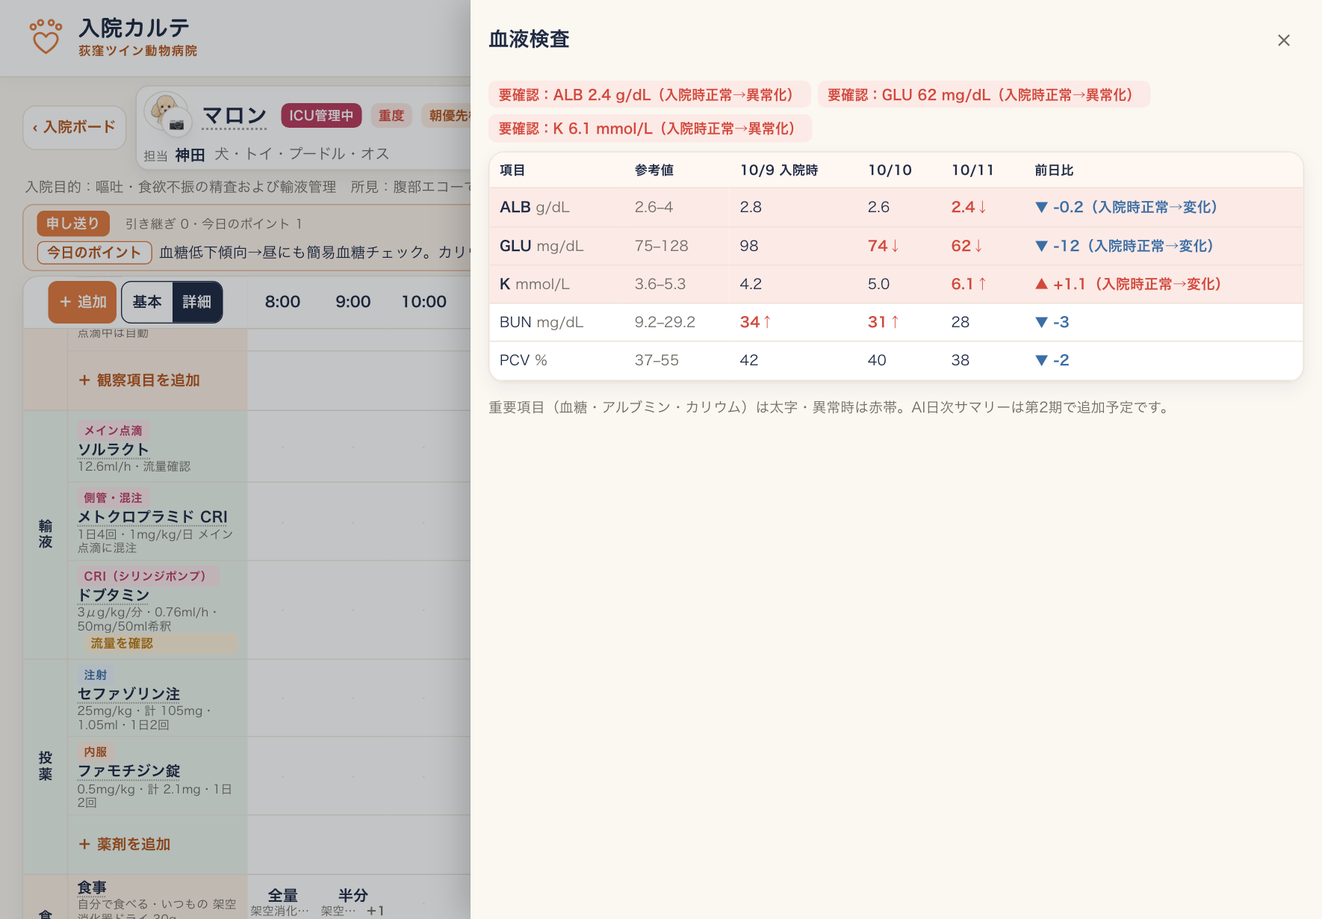
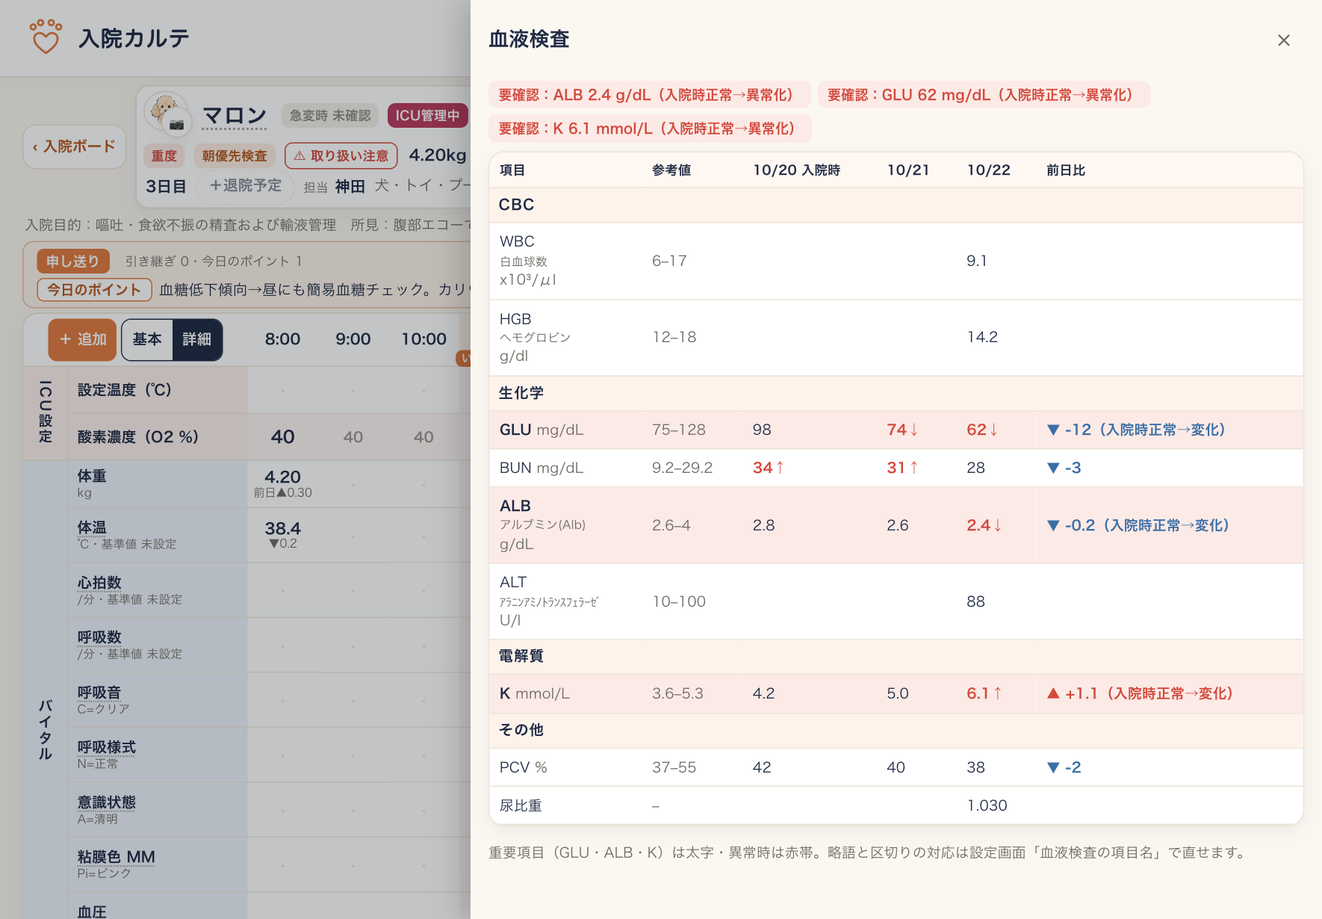
入院カルテのガイドを10/22版に（投薬準備の□とまとめて実施・処置の区分・終了した指示をたたむ・体重が先頭・観察は排尿排便だけ・内服の何錠・血液検査の区切りと略語・食べた量を更新・メモの目印・iPad縦の見出し）

diff --git a/nyuin.html b/nyuin.html
@@ -61,7 +61,7 @@
 
 <h1>入院カルテ 使い方ガイド
 <small><a href="classic.html" style="color:#fff;text-decoration:underline">← ガイド一覧へ</a></small>
-<small>獣医師・動物看護師向け ｜ 2026年10月15日版 ｜ 荻窪ツイン動物病院</small></h1>
+<small>獣医師・動物看護師向け ｜ 2026年10月22日版 ｜ 荻窪ツイン動物病院</small></h1>
 
 <div class="card">
 <b>30秒まとめ</b><br>
@@ -121,6 +121,7 @@
 <tr><td>種・性別・年齢・体重</td><td>体重は前日との差つき。「入院◯日目」。</td></tr>
 <tr><td>赤い札・黄色の帯</td><td>診断名と特記（赤）・取り扱い注意（黄）。</td></tr>
 <tr><td>今日やること</td><td>その日の予定を時刻順に1行で。今の時＝「いま」、過ぎてもやっていない＝「遅れ」（赤）、済んだ＝✓。<b>押すと、シートと同じ入力がその場で開きます</b>。<b>赤が出ていたら最優先で対応</b>してください。</td></tr>
+<tr><td>薬の行</td><td>薬の名前（略称）・1回の量（内服は「3/4錠」など）・投与経路。例「イトラコナゾール 3/4錠 po」。</td></tr>
 <tr><td>今日やることに出るもの</td><td>最初は<b>投薬（注射・内服・皮下補液）・処置・検査・ボードで足した用事・強制給餌/チューブの食事</b>だけ。体温などのバイタルや観察は出ません。出す・出さないは、シートの項目名を押して「<b>ボードに出す</b>」で切り替えます。遅れの数も、カードに出している分だけで数えます。</td></tr>
 <tr><td>点滴 12.6ml/h／CRI 薬剤名</td><td>続いている点滴。押すと内訳が出ます。「流量を確認」が付いていたら体重が変わっています（7章）。</td></tr>
 <tr><td>下の札</td><td>朝の検査・<b>留置針の部位と何日目か</b>（交換の目安の日になるとオレンジ）・担当。</td></tr>
@@ -130,8 +131,12 @@
 <h3>3-2. 投薬準備</h3>
 <ul>
 <li>上の「<b>投薬準備</b>」を押すと、全頭（投薬のあるホテルの子も）の今日の投薬と、強制給餌・チューブの食事を<b>時刻ごとに1つの一覧</b>で見られます。今に一番近い時刻が上、過ぎた時刻は下です。</li>
-<li>錠数は指示に欄が無いので出ません。処置は入っていません。</li>
+<li>各行の右の大きい <b>□</b> を押すと、記録の画面（実際に入れた量・記録者・「実施した」）が出ます。済むと<b>緑の ✓</b> になり、行の文字が薄くなります（済んだ行も消えずに残ります）。時刻を過ぎて済んでいないものは <b>□ が赤く「遅れ」</b>が付きます。✓ を押すと記録した時刻・記録者・量が見え、取り消せます。</li>
+<li><b>まとめて記録</b>：同じ時刻に2件以上あるときは、行の左に小さいチェック欄が出ます。チェックを付けて記録者を選び、「<b>選んだ ◯件を実施した</b>」で一度に記録できます。「全部選ぶ」もあります。</li>
+<li>内服は「量」に「3/4錠」のように出ます（指示に1回の量が入っているとき）。処置は入っていません。</li>
 </ul>
+<img class="shot wide" src="nyuin-prep.png" alt="投薬準備">
+<div class="cap">▲ 投薬準備（架空データ）。左の小さいチェック＝まとめて選ぶ、右の □＝1つずつ記録</div>
 </div>
 
 <h2>4. 治療シートの見方<span class="badge b-staff" style="margin-left:6px">看護師</span><span class="badge b-vet">獣医師</span></h2>
@@ -141,15 +146,22 @@
 <h3>4-1. 表のつくり</h3>
 <ul>
 <li><b>横＝時刻</b>：8:00〜21:00 の1時間ごとの列。記録は「時」の列に入ります（9:56 の記録は 9:00 の列。マスを押すと実際の時刻が見えます）。8:00 より前・21:00 より後は、時刻の行の右端の「<b>＋時間外</b>」で列を足せます（記録の無い足した列は「×」で消せます）。</li>
-<li><b>縦＝区分</b>：<b>ICU設定</b>（ICU の子だけ）→ <b>バイタル</b> → <b>観察</b> → <b>輸液</b> → <b>投薬</b> → <b>検査</b> → <b>食事</b> → <b>様子・メモ</b>。左の色帯を押すと、その区分を1行にたためます（たたんだ行に「要確認」の件数）。</li>
+<li><b>縦＝区分</b>：<b>ICU設定</b>（ICU の子だけ）→ <b>バイタル</b> → <b>観察</b> → <b>輸液</b> → <b>投薬</b> → <b>処置</b> → <b>検査</b> → <b>食事</b> → <b>様子・メモ</b>。左の色帯を押すと、その区分を1行にたためます（たたんだ行に「要確認」の件数）。</li>
 <li><b>いまの時刻</b>：見出しの時刻に短い印が付きます（表の中の縦線はありません）。</li>
-<li><b>基本｜詳細</b>：詳細にすると、呼吸音・呼吸様式・意識状態・粘膜色・血圧・SpO2 の行や、詳細の観察項目が出ます。ICU の子は最初から詳細です。</li>
+<li><b>バイタル</b>は <b>体重 → 体温 → 心拍数 → 呼吸数</b> の順です。</li>
+<li><b>基本｜詳細</b>：詳細にすると、呼吸音・呼吸様式・意識状態・粘膜色・血圧・SpO2 の行が出ます。ICU の子は最初から詳細です。</li>
+<li><b>観察</b>は最初は<b>排尿・排便</b>だけです（点滴中は留置針も自動で出ます）。飲水・尿量・嘔吐・散歩・歯磨きなどは、要る子だけ「＋ 観察項目を追加」で足します。</li>
+<li>その日に中身がない区分（検査・処置など）は「＋ ◯◯を追加」の1行だけになります。</li>
+<li>その日に<b>終了した指示</b>は、区分の一番下の「<b>終了した指示 ◯件 ▸</b>」の1行にたたまれます。押すと薄い表示で開きます（終わった時刻とその日の記録が見えます）。開いた・たたんだは、その日の間この端末で覚えています。</li>
 <li><b>前日・翌日</b>：見出しの右で日付を切り替えます。夜間管理の子は「日中｜夜間」も切り替えられます（夜間＝21:00〜翌7:00）。</li>
 <li>入院目的などは1行に切り詰めています。押すと全文が出ます。</li>
 <li>申し送りの帯（朝の検査・前日からの引き継ぎ・今日のポイント）が表の上に出ます。</li>
 <li>退院予定の日は、その時刻の列の見出しに「退院 HH:MM」が出て、そのあとの列は薄くなります。</li>
 <li>見出しの右の「<b>写真</b>」で、この子の写真・動画を日付ごとに見られます。</li>
+<li>iPad を<b>縦</b>にしたときは、1段目が患者情報、2段目が「‹ 入院ボード」・日付・右のボタンの2段になります（ボタンは折り返して全部見えます）。</li>
 </ul>
+<img class="shot wide" src="nyuin-proc.png" alt="終了した指示・投薬・処置の区分">
+<div class="cap">▲ 「終了した指示 1件 ▸」・投薬の区分・処置の区分（架空データ）</div>
 <h3>4-2. マスの見方</h3>
 <table>
 <tr><th style="width:30%">表示</th><th>意味</th></tr>
@@ -159,6 +171,8 @@
 <tr><td>✓</td><td>実施済み（マスを押すと時刻と記録者が見えます）。</td></tr>
 <tr><td>38.6→39.1　3回</td><td>同じ時間に2回以上記録したとき。数値は「最初→最新」、3回以上は回数。あり・なしは「○ 2回」。</td></tr>
 <tr><td>カメラの印</td><td>写真・動画が付いた記録。</td></tr>
+<tr><td>右上の小さなオレンジの三角</td><td><b>メモが入っている記録</b>。どの区分のマスでも同じです。マスを押すとメモの全文が見えます。</td></tr>
+<tr><td>1割→全量</td><td>あとから「食べた量を更新」した食事（8-2）。押すと経過が見えます。</td></tr>
 </table>
 </div>
 
@@ -180,7 +194,7 @@
 <img class="shot wide" src="nyuin-bulk.png" alt="バイタルをまとめて入力">
 <div class="cap">▲ 時刻（12:00 など）を押すと「まとめて入力」が開きます（画像は前の版の見た目です）</div>
 <ul>
-<li><b>バイタル</b>と<b>観察</b>に分かれていて、上のボタンで移動できます。バイタルの選択式の項目は「正常」が最初から選ばれています。違うときだけ変えてください。</li>
+<li><b>バイタル</b>・<b>観察</b>・<b>投薬</b>に分かれていて、上のボタンで移動できます。投薬は、その時刻の薬が □ で並びます（最初は何も選ばれていません）。選んだ薬だけ、記録者と時刻を同じにして実施した記録になります。バイタルの選択式の項目は「正常」が最初から選ばれています。違うときだけ変えてください。</li>
 <li>観察は最初は空です。<b>入れた項目だけ</b>記録され、その項目の予定だけ実施済みになります。</li>
 <li>血圧は「上／下（平均）」で入れます（例 120/80（93））。</li>
 <li>「まとめて記録」で1回の記録として保存されます。</li>
@@ -195,15 +209,26 @@
 <ul>
 <li>排尿・排便は、性状をボタンで選びます（いくつでも）。便はスコアも選べます。正常以外は色が付きます。選択肢は設定画面で足せます。</li>
 <li>排尿は<b>方法</b>を1回ごとに選べます。<b>尿カテ留置・カテーテル導尿</b>のときは<b>尿量（ml）</b>の欄が出て、体重と前回の尿量の記録からの時間で <b>ml/kg/h</b> をその場で出します。時間は手で直せます。基準より低いと「低」が付きます（基準は設定画面で獣医師が入れます。入れるまでは色は付きません）。</li>
+<li>「尿量」の行は最初は出ません。尿量は排尿の記録で入れます（合計と ml/kg/h は項目名「排尿」を押すと見えます）。どうしても尿量だけの行が要る子は「＋ 観察項目を追加」の「尿量」で足せます。</li>
 </ul>
 <h3>5-5. 留置針</h3>
 <ul>
 <li>留置針の記録で「設置」「交換」を選ぶときは<b>部位</b>（右前肢 ほか）を必ず選びます。ゲージ（22G ほか）は任意です。</li>
+<li>まだ設置の記録がない子の「<b>部位未入力</b>」のマスを押すと、最初から「設置」が選ばれ、部位とゲージの欄が出ています。</li>
 <li>設置・交換した日を1日目として「<b>右前・3日目</b>」のように数え、ボードの札にも出ます。<b>交換の目安の日</b>（最初は4日目・設定画面で変えられます）になると項目名がオレンジになります。「抜去」で数えるのをやめます。</li>
 <li>項目名を押すと「留置針の履歴」が見られます。</li>
 </ul>
 <h3>5-6. 直す・取り消す</h3>
 <p style="margin:0">記録済みのマスを押すと、記録の一覧（値・時刻・記録者）が出ます。「<b>修正</b>」で入れ直し、「<b>取り消す</b>」で消せます。予定のあるマスの記録を取り消すと、その予定は「予定」「未実施」に戻ります。</p>
+<h3>5-7. 同じ時刻の薬をまとめて「実施した」にする</h3>
+<img class="shot wide" src="nyuin-sib.png" alt="同じ時刻のほかの薬">
+<div class="cap">▲ 18:00 の薬のマスを押したところ（架空データ）。同じ時刻のほかの薬が □ で並びます</div>
+<ul>
+<li>注射・内服・皮下補液のマスを押すと、パネルの中に「<b>同じ時刻のほかの薬</b>」が並びます。押した薬は最初からチェック済みで、ほかはチェックを付けて選びます（「全部選ぶ」もあります）。</li>
+<li>皮下補液は、それぞれの行で実際に入れた量を直せます。記録者は1人選べば全部に入ります。</li>
+<li>ボタンは「<b>選んだ ◯件を実施した</b>」です。すでに済んでいる薬は ✓（済）で出て、選べません。</li>
+<li>時刻のまとめ入力の「投薬」、入院ボードの「投薬準備」でも、まとめて記録できます（5-2・3-2）。</li>
+</ul>
 </div>
 
 <h2>6. 指示を足す・直す<span class="badge b-vet" style="margin-left:6px">獣医師</span></h2>
@@ -215,6 +240,8 @@
 <ul>
 <li>薬剤の欄を押すと<b>検索して選ぶ画面</b>が出ます（名前の一部・略称（例 ABPC）・ひらがなでも可）。検索欄が空のときは、この子で最近使った薬剤 → 院内でよく使う薬剤 → すべての順に出ます。最初は選んだ区分の薬剤だけ出ます（「すべて表示」で全部）。マスタに無いものは「マスタ外の名前で入れる」。</li>
 <li>薬剤マスタから選ぶと<b>体重から投与量を自動計算</b>します。安全域の外だと警告が出ます。<b>「⚠未確認」</b>の薬剤は院長がまだ用量を確認していないものです。使うときは自分でも必ず確認してください。KCL などの危険薬は赤い安全警告が出ます。</li>
+<li><b>内服</b>は「<b>1回の量</b>」（1/4・1/2・3/4・1・1と1/2・2 のボタンか文字で。単位は錠・カプセル・包・ml）を入れられます。投薬準備・シートの項目名の下・入院ボードのカード・疾患別セットに出ます。</li>
+<li><b>処置</b>は、候補のボタン（胸水抜去・包帯・ガーゼ交換・創部の消毒 ほか）から選ぶか文字で入れます。「◯時間ごと」を入れると 8:00〜21:00 の時刻が入ります。処置は治療シートの「<b>処置</b>」の区分に出ます（投薬の下・検査の上）。区分の中の「＋ 処置を追加」からも足せます。マスでは実施・記録者・<b>メモ・写真</b>を入れられます。</li>
 <li>時間帯（朝 8:00・昼 13:00・夕 18:00）か時刻を選びます。「この日だけ」で1日だけの予定にもできます。</li>
 <li><b>バイタル</b>は、予定にする項目（体温・心拍数・呼吸数）を選びます。同じ項目の予定がすでにあれば、そこに時間帯が足されます。</li>
 <li><b>給餌</b>は時間帯だけを決めます（フードと量は8章）。</li>
@@ -224,8 +251,8 @@
 <h3>6-2. 項目名を押して直す・終える</h3>
 <ul>
 <li>行の項目名（薬剤名・体温など）を押すと、右のパネルで名称・用量・予定の時間帯・メモを直せます。</li>
-<li>「<b>この項目を終了</b>」で、今日から先の未実施の予定が消えます（実施済みの記録は残ります）。投薬・点滴は、終了した日のシートに薄い行（「終了 10/11 18:08」のように終わった時刻つき）で残ります。</li>
-<li>観察項目は「＋ 観察項目を追加」で候補から足せます。項目名から「表示しない」にしても記録は残り、「↩」で戻せます。</li>
+<li>「<b>この項目を終了</b>」で、今日から先の未実施の予定が消えます（実施済みの記録は残ります）。投薬・点滴・処置は、終了した日のシートでは区分の一番下の「終了した指示 ◯件 ▸」にたたまれます（押すと薄い行で、終わった時刻とその日の記録が見えます）。</li>
+<li>観察項目は「＋ 観察項目を追加」で候補（飲水・尿量・嘔吐・散歩・歯磨き・疼痛 ほか）から足すか、名前を入れて足せます。項目名から「表示しない」にしても記録は残り、「↩」で戻せます。</li>
 <li>項目名のパネルの「<b>ボードに出す</b>」で、入院ボードのカードの「今日やること」に出す・出さないを切り替えます（3-1）。</li>
 </ul>
 <h3>6-3. 検査の予定</h3>
@@ -261,6 +288,7 @@
 <li>太字のマスを押すと、<b>変更前の流量・変えた人・時刻</b>が見えます。</li>
 <li><b>体重が変わっても ml/h は自動で変えません</b>（ポンプに設定している値のため）。項目名の横に「<b>流量を確認</b>」が出ます。項目名を押すと、今の体重での ml/kg/h が見えます。ポンプはそのままでよいときは「この ml/h のまま今の体重にそろえる」で印が消えます。</li>
 <li>流量の変更の記録は消せません。間違えたときは、もう一度流量を変えて直します。</li>
+<li>流量を変えるときに「＋ 追加」で同じ点滴をもう一度入れると、止まって案内が出ます（行が2本に分かれないように）。<b>流量は項目名から直します。</b>薬剤そのものを替えるとき（例 ソルラクト → ラクテック）は、今の点滴を終了してから新しく足します。</li>
 </ul>
 </div>
 
@@ -283,7 +311,13 @@
 <li><b>フード</b>：初期値は「いつものフード」。この患者で最近使ったフード・フードマスタ・手入力からも選べます。<b>あげた量（g）</b>も直せます。</li>
 <li>「<b>＋もう1品</b>」で2種類以上を記録できます。2品以上のときは<b>出し方</b>（混ぜて＝食べた量は全体で1つ／別皿＝フードごとに食べた量）を選びます。</li>
 <li><b>食べた量</b>（0割〜10割の11段階。10割＝全量・0割＝食べず）・<b>与え方の印</b>（温めた／ふやかした／手から・いくつでも）・<b>メモ</b>（カロリーに入れない）。</li>
+<li><b>あとから食べたとき</b>（例 8:00 に1割→12:00 に見たら完食）は、記録済みのマスを押して「<b>食べた量を更新</b>」を押し、今の割合・時刻・記録者を選んで保存します。前の割合は残り、マスは「1割→全量」、押すと「8:00 1割（永野）→ 12:05 全量（◯◯）」のように経過が見えます。摂取カロリーは新しい割合で計算し直します。「修正」は入れ間違いを直すときに使います。</li>
+<li>記録済みの食事のマスでは、新しい記録の入力欄は最初たたまれています。同じ時間にもう1回あげたときだけ「<b>＋ この時間にもう1回あげた</b>」を押します。</li>
 <li>「<b>前回と同じ</b>」で前回のフード・量・出し方・与え方の印・与える方法が入ります（食べた量とメモは入りません）。</li>
+</ul>
+<img class="shot wide" src="nyuin-meal-upd.png" alt="食べた量を更新">
+<div class="cap">▲ 記録済みの食事のマスで「食べた量を更新」を押したところ（架空データ）</div>
+<ul>
 <li><b>チューブ</b>のときは、フード（流動食）・入れた量（ml）・前後に流した水（ml・任意）を入れます。<b>シリンジで強制給餌</b>のときは入れた量（ml か g）。どちらも食べた量は出ません。</li>
 </ul>
 <table>
@@ -299,9 +333,9 @@
 <div class="card">
 <p style="margin-top:0">治療シートの見出しの右のボタンで、右からパネルが出ます（シートは見えたまま）。</p>
 <img class="shot wide" src="nyuin-labs.png" alt="血液検査のパネル">
-<div class="cap">▲ 血液検査。前日からの増減と、入院時は正常だったのに悪化した項目を赤帯で知らせます</div>
+<div class="cap">▲ 血液検査（架空データ）。CBC・生化学・電解質・その他に分かれ、略語で並びます</div>
 <ul>
-<li><b>血液検査</b>：アーミックスから取り込んだ検査を日ごとに並べます。血糖・アルブミン・カリウムなどは太字。</li>
+<li><b>血液検査</b>：アーミックスから取り込んだ検査を日ごとに並べます。<b>CBC → 生化学 → 電解質 → その他</b>の区切りで、決まった順番に<b>略語</b>（WBC・HGB・BUN・ALT など）で出ます。日本語の名前は略語の下に小さく出ます。その日に測っていない項目は出ません。GLU・ALB・K は太字、基準の外は赤、前日からの増減は ▲▼。略語と区切りの対応は設定画面で直せます（対応のない名前は「その他」に来た名前のまま出ます）。</li>
 <li><b>所見</b>：主観・レントゲン・エコーの所見を書きます。</li>
 <li><b>申し送り</b>：明日の朝の検査（ボタンで選ぶ・「前日と同様」も可）・明日への引き継ぎ・今日のポイント。シートの上の帯と入院ボードに出ます。</li>
 </ul>
@@ -326,6 +360,7 @@
 <li>バイタルの基準値（猫・小型犬・大型犬）・選択式のバイタルの選択肢・朝の検査のボタン。</li>
 <li>CRI の用量の単位・食事の与える方法・与え方の印（足せます）。</li>
 <li>フードマスタ（kcal/100g・流動食の kcal/ml・CSV 取込）・疾患別セット。</li>
+<li><b>血液検査の項目名</b>（電子カルテの名前 → 略語・区切り・並び）・<b>処置の候補</b>（足す・名前を直す・使わない）。</li>
 <li>排尿・排便の選択肢・留置針の部位と交換の目安の日・尿量の「低」の基準（ml/kg/h）・摂取カロリーの色の境目・急変時の対応の選択肢の名前。</li>
 </ul>
 </div>
@@ -347,6 +382,9 @@
 <tr><td>食事のマスに「kcal不明」が出た</td><td>そのフードの代謝エネルギーが分かりません。フードマスタに登録するか、手入力で kcal/100g（流動食は kcal/ml）を入れてください。</td></tr>
 <tr><td>昼に足した指示の朝の分が出ない</td><td>指示を出した時刻より60分以上前の今日の予定は作らない決まりです（やり忘れではないのに「未実施」にしないため）。</td></tr>
 <tr><td>ボードに体温・観察の予定が出ない</td><td>最初は投薬・処置・検査・強制給餌/チューブの食事だけ出します。出したい項目は、シートの項目名を押して「ボードに出す」にしてください。</td></tr>
+<tr><td>点滴の流量を変えたら行が2本になった</td><td>流量は項目名を押して直します（行は1本のまま、変えた時刻のマスに新しい流量が太字で出ます）。「＋ 追加」で同じ点滴を入れると止まります。</td></tr>
+<tr><td>終了した薬がシートから消えた</td><td>区分の一番下の「終了した指示 ◯件 ▸」にたたまれています。押すと開きます。</td></tr>
+<tr><td>尿量の行がない</td><td>最初は出しません。尿カテ留置・カテーテル導尿のときは排尿の記録で尿量を入れます。行が要る子は「＋ 観察項目を追加」で「尿量」を足してください。</td></tr>
 <tr><td>撮った動画はずっと残りますか？</td><td>写真は残り続けます。動画は<b>退院から90日たつと院内の NAS へ移します</b>（アプリからは見えなくなります）。</td></tr>
 <tr><td>表示がおかしい・動かない</td><td>まず再読み込み。直らなければ院長へ。</td></tr>
 </table>
@@ -354,7 +392,7 @@
 
 <div class="imp"><b>⚠ 患者情報の取り扱い：</b>この画面には患者名・飼い主さんの情報が表示されます。<b>院外で画面を開いたまま席を離れない・画面の写真をSNS等に載せない</b>でください。（このガイドの画像はすべて架空のサンプルです）</div>
 
-<footer>荻窪ツイン動物病院 ｜ 入院カルテ 使い方ガイド（2026年10月15日版）<br>不明点・改善要望は院長まで</footer>
+<footer>荻窪ツイン動物病院 ｜ 入院カルテ 使い方ガイド（2026年10月22日版）<br>不明点・改善要望は院長まで</footer>
 </div>
 </body>
 </html>
